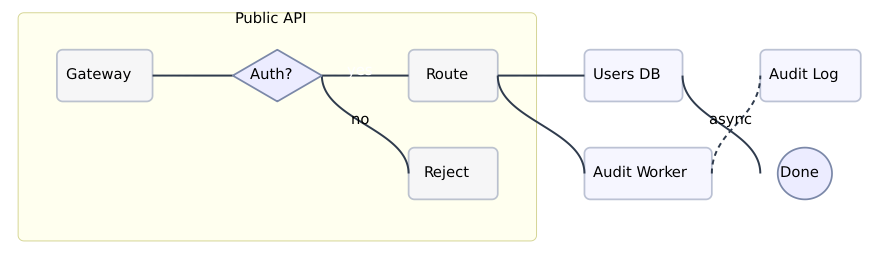
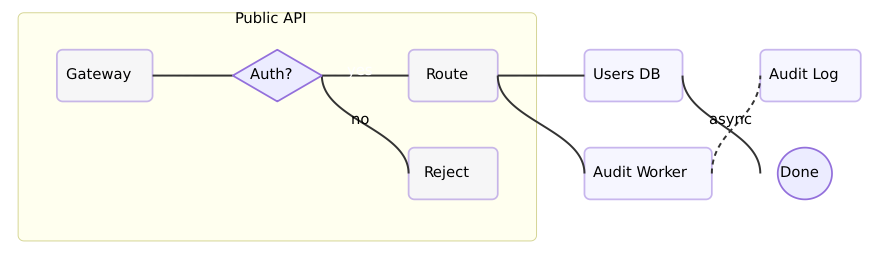
fix(theme): align default theme colors with Mermaid JS (#5)
* fix(theme): align default theme colors with Mermaid JS for high-fidelity rendering

Update MermaidDefaultTheme to mirror theme-default.js: fix border color
(#9370DB), line color (#333333), edge label background, text color, and
compute accurate 12-element pie chart palette. Fix ER diagram CSS with
correct entity box borders, odd/even attribute backgrounds, marker
styles. Fix sequence diagram CSS replacing computed HSL with #9370DB for
actor strokes.

* style: run gofmt on unformatted files

diff --git a/render.go b/render.go
@@ -132,7 +132,7 @@ func RenderSVG(layout Layout, theme Theme, _ LayoutConfig) string {
 		} else if layout.Kind == DiagramMindmap {
 			b.WriteString(`<style>#my-svg{font-family:"trebuchet ms",verdana,arial,sans-serif;font-size:16px;fill:#333;}@keyframes edge-animation-frame{from{stroke-dashoffset:0;}}@keyframes dash{to{stroke-dashoffset:0;}}#my-svg .edge-animation-slow{stroke-dasharray:9,5!important;stroke-dashoffset:900;animation:dash 50s linear infinite;stroke-linecap:round;}#my-svg .edge-animation-fast{stroke-dasharray:9,5!important;stroke-dashoffset:900;animation:dash 20s linear infinite;stroke-linecap:round;}#my-svg .error-icon{fill:#552222;}#my-svg .error-text{fill:#552222;stroke:#552222;}#my-svg .edge-thickness-normal{stroke-width:1px;}#my-svg .edge-thickness-thick{stroke-width:3.5px;}#my-svg .edge-pattern-solid{stroke-dasharray:0;}#my-svg .edge-thickness-invisible{stroke-width:0;fill:none;}#my-svg .edge-pattern-dashed{stroke-dasharray:3;}#my-svg .edge-pattern-dotted{stroke-dasharray:2;}#my-svg .marker{fill:#333333;stroke:#333333;}#my-svg .marker.cross{stroke:#333333;}#my-svg svg{font-family:"trebuchet ms",verdana,arial,sans-serif;font-size:16px;}#my-svg p{margin:0;}#my-svg .edge{stroke-width:3;}#my-svg .section--1 rect,#my-svg .section--1 path,#my-svg .section--1 circle,#my-svg .section--1 polygon,#my-svg .section--1 path{fill:hsl(240, 100%, 76.2745098039%);}#my-svg .section--1 text{fill:#ffffff;}#my-svg .node-icon--1{font-size:40px;color:#ffffff;}#my-svg .section-edge--1{stroke:hsl(240, 100%, 76.2745098039%);}#my-svg .edge-depth--1{stroke-width:17;}#my-svg .section--1 line{stroke:hsl(60, 100%, 86.2745098039%);stroke-width:3;}#my-svg .disabled,#my-svg .disabled circle,#my-svg .disabled text{fill:lightgray;}#my-svg .disabled text{fill:#efefef;}#my-svg .section-0 rect,#my-svg .section-0 path,#my-svg .section-0 circle,#my-svg .section-0 polygon,#my-svg .section-0 path{fill:hsl(60, 100%, 73.5294117647%);}#my-svg .section-0 text{fill:black;}#my-svg .node-icon-0{font-size:40px;color:black;}#my-svg .section-edge-0{stroke:hsl(60, 100%, 73.5294117647%);}#my-svg .edge-depth-0{stroke-width:14;}#my-svg .section-0 line{stroke:hsl(240, 100%, 83.5294117647%);stroke-width:3;}#my-svg .disabled,#my-svg .disabled circle,#my-svg .disabled text{fill:lightgray;}#my-svg .disabled text{fill:#efefef;}#my-svg .section-1 rect,#my-svg .section-1 path,#my-svg .section-1 circle,#my-svg .section-1 polygon,#my-svg .section-1 path{fill:hsl(80, 100%, 76.2745098039%);}#my-svg .section-1 text{fill:black;}#my-svg .node-icon-1{font-size:40px;color:black;}#my-svg .section-edge-1{stroke:hsl(80, 100%, 76.2745098039%);}#my-svg .edge-depth-1{stroke-width:11;}#my-svg .section-1 line{stroke:hsl(260, 100%, 86.2745098039%);stroke-width:3;}#my-svg .disabled,#my-svg .disabled circle,#my-svg .disabled text{fill:lightgray;}#my-svg .disabled text{fill:#efefef;}#my-svg .section-2 rect,#my-svg .section-2 path,#my-svg .section-2 circle,#my-svg .section-2 polygon,#my-svg .section-2 path{fill:hsl(270, 100%, 76.2745098039%);}#my-svg .section-2 text{fill:#ffffff;}#my-svg .node-icon-2{font-size:40px;color:#ffffff;}#my-svg .section-edge-2{stroke:hsl(270, 100%, 76.2745098039%);}#my-svg .edge-depth-2{stroke-width:8;}#my-svg .section-2 line{stroke:hsl(90, 100%, 86.2745098039%);stroke-width:3;}#my-svg .disabled,#my-svg .disabled circle,#my-svg .disabled text{fill:lightgray;}#my-svg .disabled text{fill:#efefef;}#my-svg .section-3 rect,#my-svg .section-3 path,#my-svg .section-3 circle,#my-svg .section-3 polygon,#my-svg .section-3 path{fill:hsl(300, 100%, 76.2745098039%);}#my-svg .section-3 text{fill:black;}#my-svg .node-icon-3{font-size:40px;color:black;}#my-svg .section-edge-3{stroke:hsl(300, 100%, 76.2745098039%);}#my-svg .edge-depth-3{stroke-width:5;}#my-svg .section-3 line{stroke:hsl(120, 100%, 86.2745098039%);stroke-width:3;}#my-svg .disabled,#my-svg .disabled circle,#my-svg .disabled text{fill:lightgray;}#my-svg .disabled text{fill:#efefef;}#my-svg .section-4 rect,#my-svg .section-4 path,#my-svg .section-4 circle,#my-svg .section-4 polygon,#my-svg .section-4 path{fill:hsl(330, 100%, 76.2745098039%);}#my-svg .section-4 text{fill:black;}#my-svg .node-icon-4{font-size:40px;color:black;}#my-svg .section-edge-4{stroke:hsl(330, 100%, 76.2745098039%);}#my-svg .edge-depth-4{stroke-width:2;}#my-svg .section-4 line{stroke:hsl(150, 100%, 86.2745098039%);stroke-width:3;}#my-svg .disabled,#my-svg .disabled circle,#my-svg .disabled text{fill:lightgray;}#my-svg .disabled text{fill:#efefef;}#my-svg .section-5 rect,#my-svg .section-5 path,#my-svg .section-5 circle,#my-svg .section-5 polygon,#my-svg .section-5 path{fill:hsl(0, 100%, 76.2745098039%);}#my-svg .section-5 text{fill:black;}#my-svg .node-icon-5{font-size:40px;color:black;}#my-svg .section-edge-5{stroke:hsl(0, 100%, 76.2745098039%);}#my-svg .edge-depth-5{stroke-width:-1;}#my-svg .section-5 line{stroke:hsl(180, 100%, 86.2745098039%);stroke-width:3;}#my-svg .disabled,#my-svg .disabled circle,#my-svg .disabled text{fill:lightgray;}#my-svg .disabled text{fill:#efefef;}#my-svg .section-6 rect,#my-svg .section-6 path,#my-svg .section-6 circle,#my-svg .section-6 polygon,#my-svg .section-6 path{fill:hsl(30, 100%, 76.2745098039%);}#my-svg .section-6 text{fill:black;}#my-svg .node-icon-6{font-size:40px;color:black;}#my-svg .section-edge-6{stroke:hsl(30, 100%, 76.2745098039%);}#my-svg .edge-depth-6{stroke-width:-4;}#my-svg .section-6 line{stroke:hsl(210, 100%, 86.2745098039%);stroke-width:3;}#my-svg .disabled,#my-svg .disabled circle,#my-svg .disabled text{fill:lightgray;}#my-svg .disabled text{fill:#efefef;}#my-svg .section-7 rect,#my-svg .section-7 path,#my-svg .section-7 circle,#my-svg .section-7 polygon,#my-svg .section-7 path{fill:hsl(90, 100%, 76.2745098039%);}#my-svg .section-7 text{fill:black;}#my-svg .node-icon-7{font-size:40px;color:black;}#my-svg .section-edge-7{stroke:hsl(90, 100%, 76.2745098039%);}#my-svg .edge-depth-7{stroke-width:-7;}#my-svg .section-7 line{stroke:hsl(270, 100%, 86.2745098039%);stroke-width:3;}#my-svg .disabled,#my-svg .disabled circle,#my-svg .disabled text{fill:lightgray;}#my-svg .disabled text{fill:#efefef;}#my-svg .section-8 rect,#my-svg .section-8 path,#my-svg .section-8 circle,#my-svg .section-8 polygon,#my-svg .section-8 path{fill:hsl(150, 100%, 76.2745098039%);}#my-svg .section-8 text{fill:black;}#my-svg .node-icon-8{font-size:40px;color:black;}#my-svg .section-edge-8{stroke:hsl(150, 100%, 76.2745098039%);}#my-svg .edge-depth-8{stroke-width:-10;}#my-svg .section-8 line{stroke:hsl(330, 100%, 86.2745098039%);stroke-width:3;}#my-svg .disabled,#my-svg .disabled circle,#my-svg .disabled text{fill:lightgray;}#my-svg .disabled text{fill:#efefef;}#my-svg .section-9 rect,#my-svg .section-9 path,#my-svg .section-9 circle,#my-svg .section-9 polygon,#my-svg .section-9 path{fill:hsl(180, 100%, 76.2745098039%);}#my-svg .section-9 text{fill:black;}#my-svg .node-icon-9{font-size:40px;color:black;}#my-svg .section-edge-9{stroke:hsl(180, 100%, 76.2745098039%);}#my-svg .edge-depth-9{stroke-width:-13;}#my-svg .section-9 line{stroke:hsl(0, 100%, 86.2745098039%);stroke-width:3;}#my-svg .disabled,#my-svg .disabled circle,#my-svg .disabled text{fill:lightgray;}#my-svg .disabled text{fill:#efefef;}#my-svg .section-10 rect,#my-svg .section-10 path,#my-svg .section-10 circle,#my-svg .section-10 polygon,#my-svg .section-10 path{fill:hsl(210, 100%, 76.2745098039%);}#my-svg .section-10 text{fill:black;}#my-svg .node-icon-10{font-size:40px;color:black;}#my-svg .section-edge-10{stroke:hsl(210, 100%, 76.2745098039%);}#my-svg .edge-depth-10{stroke-width:-16;}#my-svg .section-10 line{stroke:hsl(30, 100%, 86.2745098039%);stroke-width:3;}#my-svg .disabled,#my-svg .disabled circle,#my-svg .disabled text{fill:lightgray;}#my-svg .disabled text{fill:#efefef;}#my-svg .section-root rect,#my-svg .section-root path,#my-svg .section-root circle,#my-svg .section-root polygon{fill:hsl(240, 100%, 46.2745098039%);}#my-svg .section-root text{fill:#ffffff;}#my-svg .section-root span{color:#ffffff;}#my-svg .section-2 span{color:#ffffff;}#my-svg .icon-container{height:100%;display:flex;justify-content:center;align-items:center;}#my-svg .edge{fill:none;}#my-svg .mindmap-node-label{dy:1em;alignment-baseline:middle;text-anchor:middle;dominant-baseline:middle;text-align:center;}#my-svg :root{--mermaid-font-family:"trebuchet ms",verdana,arial,sans-serif;}</style>`)
 		} else if layout.Kind == DiagramSequence {
-			b.WriteString(`<style>#my-svg{font-family:"trebuchet ms",verdana,arial,sans-serif;font-size:16px;fill:#333;}@keyframes edge-animation-frame{from{stroke-dashoffset:0;}}@keyframes dash{to{stroke-dashoffset:0;}}#my-svg .edge-animation-slow{stroke-dasharray:9,5!important;stroke-dashoffset:900;animation:dash 50s linear infinite;stroke-linecap:round;}#my-svg .edge-animation-fast{stroke-dasharray:9,5!important;stroke-dashoffset:900;animation:dash 20s linear infinite;stroke-linecap:round;}#my-svg .error-icon{fill:#552222;}#my-svg .error-text{fill:#552222;stroke:#552222;}#my-svg .edge-thickness-normal{stroke-width:1px;}#my-svg .edge-thickness-thick{stroke-width:3.5px;}#my-svg .edge-pattern-solid{stroke-dasharray:0;}#my-svg .edge-thickness-invisible{stroke-width:0;fill:none;}#my-svg .edge-pattern-dashed{stroke-dasharray:3;}#my-svg .edge-pattern-dotted{stroke-dasharray:2;}#my-svg .marker{fill:#333333;stroke:#333333;}#my-svg .marker.cross{stroke:#333333;}#my-svg svg{font-family:"trebuchet ms",verdana,arial,sans-serif;font-size:16px;}#my-svg p{margin:0;}#my-svg .actor{stroke:hsl(259.6261682243, 59.7765363128%, 87.9019607843%);fill:#ECECFF;}#my-svg text.actor&gt;tspan{fill:black;stroke:none;}#my-svg .actor-line{stroke:hsl(259.6261682243, 59.7765363128%, 87.9019607843%);}#my-svg .innerArc{stroke-width:1.5;stroke-dasharray:none;}#my-svg .messageLine0{stroke-width:1.5;stroke-dasharray:none;stroke:#333;}#my-svg .messageLine1{stroke-width:1.5;stroke-dasharray:2,2;stroke:#333;}#my-svg #arrowhead path{fill:#333;stroke:#333;}#my-svg .sequenceNumber{fill:white;}#my-svg #sequencenumber{fill:#333;}#my-svg #crosshead path{fill:#333;stroke:#333;}#my-svg .messageText{fill:#333;stroke:none;}#my-svg .labelBox{stroke:hsl(259.6261682243, 59.7765363128%, 87.9019607843%);fill:#ECECFF;}#my-svg .labelText,#my-svg .labelText&gt;tspan{fill:black;stroke:none;}#my-svg .loopText,#my-svg .loopText&gt;tspan{fill:black;stroke:none;}#my-svg .loopLine{stroke-width:2px;stroke-dasharray:2,2;stroke:hsl(259.6261682243, 59.7765363128%, 87.9019607843%);fill:hsl(259.6261682243, 59.7765363128%, 87.9019607843%);}#my-svg .note{stroke:#aaaa33;fill:#fff5ad;}#my-svg .noteText,#my-svg .noteText&gt;tspan{fill:black;stroke:none;}#my-svg .activation0{fill:#f4f4f4;stroke:#666;}#my-svg .activation1{fill:#f4f4f4;stroke:#666;}#my-svg .activation2{fill:#f4f4f4;stroke:#666;}#my-svg .actorPopupMenu{position:absolute;}#my-svg .actorPopupMenuPanel{position:absolute;fill:#ECECFF;box-shadow:0px 8px 16px 0px rgba(0,0,0,0.2);filter:drop-shadow(3px 5px 2px rgb(0 0 0 / 0.4));}#my-svg .actor-man line{stroke:hsl(259.6261682243, 59.7765363128%, 87.9019607843%);fill:#ECECFF;}#my-svg .actor-man circle,#my-svg line{stroke:hsl(259.6261682243, 59.7765363128%, 87.9019607843%);fill:#ECECFF;stroke-width:2px;}#my-svg :root{--mermaid-font-family:"trebuchet ms",verdana,arial,sans-serif;}</style>`)
+			b.WriteString(`<style>#my-svg{font-family:"trebuchet ms",verdana,arial,sans-serif;font-size:16px;fill:#333;}@keyframes edge-animation-frame{from{stroke-dashoffset:0;}}@keyframes dash{to{stroke-dashoffset:0;}}#my-svg .edge-animation-slow{stroke-dasharray:9,5!important;stroke-dashoffset:900;animation:dash 50s linear infinite;stroke-linecap:round;}#my-svg .edge-animation-fast{stroke-dasharray:9,5!important;stroke-dashoffset:900;animation:dash 20s linear infinite;stroke-linecap:round;}#my-svg .error-icon{fill:#552222;}#my-svg .error-text{fill:#552222;stroke:#552222;}#my-svg .edge-thickness-normal{stroke-width:1px;}#my-svg .edge-thickness-thick{stroke-width:3.5px;}#my-svg .edge-pattern-solid{stroke-dasharray:0;}#my-svg .edge-thickness-invisible{stroke-width:0;fill:none;}#my-svg .edge-pattern-dashed{stroke-dasharray:3;}#my-svg .edge-pattern-dotted{stroke-dasharray:2;}#my-svg .marker{fill:#333333;stroke:#333333;}#my-svg .marker.cross{stroke:#333333;}#my-svg svg{font-family:"trebuchet ms",verdana,arial,sans-serif;font-size:16px;}#my-svg p{margin:0;}#my-svg .actor{stroke:#9370DB;fill:#ECECFF;}#my-svg text.actor&gt;tspan{fill:black;stroke:none;}#my-svg .actor-line{stroke:#9370DB;}#my-svg .innerArc{stroke-width:1.5;stroke-dasharray:none;}#my-svg .messageLine0{stroke-width:1.5;stroke-dasharray:none;stroke:#333;}#my-svg .messageLine1{stroke-width:1.5;stroke-dasharray:2,2;stroke:#333;}#my-svg #arrowhead path{fill:#333;stroke:#333;}#my-svg .sequenceNumber{fill:white;}#my-svg #sequencenumber{fill:#333;}#my-svg #crosshead path{fill:#333;stroke:#333;}#my-svg .messageText{fill:#333;stroke:none;}#my-svg .labelBox{stroke:#9370DB;fill:#ECECFF;}#my-svg .labelText,#my-svg .labelText&gt;tspan{fill:black;stroke:none;}#my-svg .loopText,#my-svg .loopText&gt;tspan{fill:black;stroke:none;}#my-svg .loopLine{stroke-width:2px;stroke-dasharray:2,2;stroke:#9370DB;fill:#9370DB;}#my-svg .note{stroke:#aaaa33;fill:#fff5ad;}#my-svg .noteText,#my-svg .noteText&gt;tspan{fill:black;stroke:none;}#my-svg .activation0{fill:#f4f4f4;stroke:#666;}#my-svg .activation1{fill:#f4f4f4;stroke:#666;}#my-svg .activation2{fill:#f4f4f4;stroke:#666;}#my-svg .actorPopupMenu{position:absolute;}#my-svg .actorPopupMenuPanel{position:absolute;fill:#ECECFF;box-shadow:0px 8px 16px 0px rgba(0,0,0,0.2);filter:drop-shadow(3px 5px 2px rgb(0 0 0 / 0.4));}#my-svg .actor-man line{stroke:#9370DB;fill:#ECECFF;}#my-svg .actor-man circle,#my-svg line{stroke:#9370DB;fill:#ECECFF;stroke-width:2px;}#my-svg :root{--mermaid-font-family:"trebuchet ms",verdana,arial,sans-serif;}</style>`)
 		} else if layout.Kind == DiagramBlock {
 			b.WriteString(`<style>#my-svg{font-family:"trebuchet ms",verdana,arial,sans-serif;font-size:16px;fill:#333;}@keyframes edge-animation-frame{from{stroke-dashoffset:0;}}@keyframes dash{to{stroke-dashoffset:0;}}#my-svg .edge-animation-slow{stroke-dasharray:9,5!important;stroke-dashoffset:900;animation:dash 50s linear infinite;stroke-linecap:round;}#my-svg .edge-animation-fast{stroke-dasharray:9,5!important;stroke-dashoffset:900;animation:dash 20s linear infinite;stroke-linecap:round;}#my-svg .error-icon{fill:#552222;}#my-svg .error-text{fill:#552222;stroke:#552222;}#my-svg .edge-thickness-normal{stroke-width:1px;}#my-svg .edge-thickness-thick{stroke-width:3.5px;}#my-svg .edge-pattern-solid{stroke-dasharray:0;}#my-svg .edge-thickness-invisible{stroke-width:0;fill:none;}#my-svg .edge-pattern-dashed{stroke-dasharray:3;}#my-svg .edge-pattern-dotted{stroke-dasharray:2;}#my-svg .marker{fill:#333333;stroke:#333333;}#my-svg .marker.cross{stroke:#333333;}#my-svg svg{font-family:"trebuchet ms",verdana,arial,sans-serif;font-size:16px;}#my-svg p{margin:0;}#my-svg .label{font-family:"trebuchet ms",verdana,arial,sans-serif;color:#333;}#my-svg .cluster-label text{fill:#333;}#my-svg .cluster-label span,#my-svg p{color:#333;}#my-svg .label text,#my-svg span,#my-svg p{fill:#333;color:#333;}#my-svg .node rect,#my-svg .node circle,#my-svg .node ellipse,#my-svg .node polygon,#my-svg .node path{fill:#ECECFF;stroke:#9370DB;stroke-width:1px;}#my-svg .flowchart-label text{text-anchor:middle;}#my-svg .node .label{text-align:center;}#my-svg .node.clickable{cursor:pointer;}#my-svg .arrowheadPath{fill:#333333;}#my-svg .edgePath .path{stroke:#333333;stroke-width:2.0px;}#my-svg .flowchart-link{stroke:#333333;fill:none;}#my-svg .edgeLabel{background-color:rgba(232,232,232, 0.8);text-align:center;}#my-svg .edgeLabel rect{opacity:0.5;background-color:rgba(232,232,232, 0.8);fill:rgba(232,232,232, 0.8);}#my-svg .labelBkg{background-color:rgba(232, 232, 232, 0.5);}#my-svg .node .cluster{fill:rgba(255, 255, 222, 0.5);stroke:rgba(170, 170, 51, 0.2);box-shadow:rgba(50, 50, 93, 0.25) 0px 13px 27px -5px,rgba(0, 0, 0, 0.3) 0px 8px 16px -8px;stroke-width:1px;}#my-svg .cluster text{fill:#333;}#my-svg .cluster span,#my-svg p{color:#333;}#my-svg div.mermaidTooltip{position:absolute;text-align:center;max-width:200px;padding:2px;font-family:"trebuchet ms",verdana,arial,sans-serif;font-size:12px;background:hsl(80, 100%, 96.2745098039%);border:1px solid #aaaa33;border-radius:2px;pointer-events:none;z-index:100;}#my-svg .flowchartTitleText{text-anchor:middle;font-size:18px;fill:#333;}#my-svg .label-icon{display:inline-block;height:1em;overflow:visible;vertical-align:-0.125em;}#my-svg .node .label-icon path{fill:currentColor;stroke:revert;stroke-width:revert;}#my-svg :root{--mermaid-font-family:"trebuchet ms",verdana,arial,sans-serif;}</style>`)
 		} else if layout.Kind == DiagramKanban {
@@ -1234,7 +1234,7 @@ func renderClassMermaid(layout Layout) string {
 		b.WriteString(`<foreignObject width="` + formatFloat(titleW) + `" height="24"><div xmlns="http://www.w3.org/1999/xhtml" style="display: table-cell; white-space: nowrap; line-height: 1.5; max-width: ` + formatFloat(maxLabelW) + `px; text-align: center;"><span class="nodeLabel markdown-node-label" style=""><p>`)
 		b.WriteString(html.EscapeString(title))
 		b.WriteString(`</p></span></div></foreignObject></g></g>`)
-		
+
 		b.WriteString(`<g class="members-group text" transform="translate(` + formatFloat(-w2+10) + `, 30)">`)
 		for _, text := range layout.Texts {
 			if text.Class == "class-member-"+rect.ID {
@@ -1246,7 +1246,7 @@ func renderClassMermaid(layout Layout) string {
 			}
 		}
 		b.WriteString(`</g>`)
-		
+
 		b.WriteString(`<g class="methods-group text" transform="translate(` + formatFloat(-w2+10) + `, 60)">`)
 		for _, text := range layout.Texts {
 			if text.Class == "class-method-"+rect.ID {
@@ -1258,7 +1258,7 @@ func renderClassMermaid(layout Layout) string {
 			}
 		}
 		b.WriteString(`</g>`)
-		
+
 		b.WriteString(`<g class="divider" style=""><path d="M` + formatFloat(-w2) + ` 6 L` + formatFloat(w2) + ` 6" stroke="#9370DB" stroke-width="1.3" fill="none" stroke-dasharray="0 0" style=""/></g>`)
 		b.WriteString(`<g class="divider" style=""><path d="M` + formatFloat(-w2) + ` 24 L` + formatFloat(w2) + ` 24" stroke="#9370DB" stroke-width="1.3" fill="none" stroke-dasharray="0 0" style=""/></g>`)
 		b.WriteString(`</g>`)
@@ -3455,7 +3455,7 @@ func radarStyleCSS() string {
 }
 
 func erStyleCSS() string {
-	return genericMermaidBaseCSS() + `#my-svg .er.entityBox{fill:#ECECFF;stroke:hsl(240, 60%, 86.2745098039%);}#my-svg .er.attributeBoxEven,#my-svg .er.attributeBoxOdd{fill:#ECECFF;stroke:hsl(240, 60%, 86.2745098039%);}#my-svg .er.entityLabel{fill:#131300;}#my-svg .er.attributeText,#my-svg .er.relationshipLabelBox span{fill:#131300;}#my-svg .er.relationshipLabelBox{fill:#ECECFF;stroke:hsl(240, 60%, 86.2745098039%);}#my-svg .er.relationshipLabelBox{opacity:1;}#my-svg .er.relationshipLabelBox rect{opacity:1;}#my-svg .er.relationshipLine{stroke:#333333;}#my-svg .er.relationshipLine path{stroke:#333333;}#my-svg .er.relationshipLine:hover{stroke:#333333;}#my-svg :root{--mermaid-font-family:"trebuchet ms",verdana,arial,sans-serif;}`
+	return genericMermaidBaseCSS() + `#my-svg .entityBox{fill:#ECECFF;stroke:#9370DB;}#my-svg .attributeBoxEven{fill:#f2f2f2;stroke:#9370DB;}#my-svg .attributeBoxOdd{fill:#ffffff;stroke:#9370DB;}#my-svg .entityLabel{fill:#131300;}#my-svg .er.entityLabel{fill:#131300;}#my-svg .er.attributeText{fill:#131300;}#my-svg .relationshipLabelBox{fill:#ECECFF;opacity:0.7;background-color:#ECECFF;}#my-svg .relationshipLabelBox rect{opacity:0.5;}#my-svg .relationshipLine{stroke:#333333;stroke-width:1px;fill:none;}#my-svg .marker{fill:none!important;stroke:#333333!important;stroke-width:1;}#my-svg .edgeLabel{background-color:rgba(232,232,232, 0.8);}#my-svg .edgeLabel .label rect{fill:rgba(232,232,232, 0.8);}#my-svg .edgeLabel .label text{fill:#333;}#my-svg .edgeLabel .label{fill:#9370DB;font-size:14px;}#my-svg .label{font-family:"trebuchet ms",verdana,arial,sans-serif;color:#333;}#my-svg .edge-pattern-dashed{stroke-dasharray:8,8;}#my-svg .node rect,#my-svg .node circle,#my-svg .node ellipse,#my-svg .node polygon{fill:#ECECFF;stroke:#9370DB;stroke-width:1px;}#my-svg :root{--mermaid-font-family:"trebuchet ms",verdana,arial,sans-serif;}`
 }
 
 func requirementStyleCSS() string {

diff --git a/config.go b/config.go
@@ -78,20 +78,20 @@ func ModernTheme() Theme {
 
 func MermaidDefaultTheme() Theme {
 	primaryColor := "#ECECFF"
-	secondaryColor := "#FFFFDE"
+	secondaryColor := "#ffffde"
 	tertiaryColor := "#ECECFF"
-	pieColors := []string{"#ECECFF", "#FFFFDE", "#B5FF20"}
+	pieColors := mermaidDefaultPieColors()
 	return Theme{
-		Background:               "#FFFFFF",
+		Background:               "white",
 		PrimaryColor:             primaryColor,
-		PrimaryBorderColor:       "#7B88A8",
-		PrimaryTextColor:         "#333333",
-		LineColor:                "#2F3B4D",
+		PrimaryBorderColor:       "#9370DB",
+		PrimaryTextColor:         "#131300",
+		LineColor:                "#333333",
 		SecondaryColor:           secondaryColor,
 		TertiaryColor:            tertiaryColor,
-		EdgeLabelBackground:      "rgba(248,250,252, 0.92)",
-		ClusterBorder:            "#AAAA33",
-		TextColor:                "#333333",
+		EdgeLabelBackground:      "rgba(232,232,232, 0.8)",
+		ClusterBorder:            "#aaaa33",
+		TextColor:                "#333",
 		FontFamily:               "'trebuchet ms', verdana, arial, sans-serif",
 		FontSize:                 16,
 		GitColors:                append([]string(nil), mermaidGitColors...),
@@ -104,16 +104,33 @@ func MermaidDefaultTheme() Theme {
 		GitTagLabelBorder:        mermaidGitTagLabelBorder,
 		PieColors:                pieColors,
 		PieTitleTextSize:         25.0,
-		PieTitleTextColor:        "#333333",
+		PieTitleTextColor:        "black",
 		PieSectionTextSize:       17.0,
-		PieSectionTextColor:      "#333333",
+		PieSectionTextColor:      "#333",
 		PieLegendTextSize:        17.0,
-		PieLegendTextColor:       "#333333",
-		PieStrokeColor:           "#000000",
+		PieLegendTextColor:       "black",
+		PieStrokeColor:           "black",
 		PieStrokeWidth:           2.0,
 		PieOuterStrokeWidth:      2.0,
-		PieOuterStrokeColor:      "#000000",
+		PieOuterStrokeColor:      "black",
 		PieOpacity:               0.7,
+	}
+}
+
+func mermaidDefaultPieColors() []string {
+	return []string{
+		"#ECECFF",
+		"#ffffde",
+		adjustColor("#ECECFF", -160.0, 0.0, -40.0),
+		adjustColor("#ECECFF", 0.0, 0.0, -10.0),
+		adjustColor("#ffffde", 0.0, 0.0, -30.0),
+		adjustColor("#ECECFF", -160.0, 0.0, -20.0),
+		adjustColor("#ECECFF", 60.0, 0.0, -20.0),
+		adjustColor("#ECECFF", -60.0, 0.0, -40.0),
+		adjustColor("#ECECFF", 120.0, 0.0, -40.0),
+		adjustColor("#ECECFF", 60.0, 0.0, -40.0),
+		adjustColor("#ECECFF", -90.0, 0.0, -40.0),
+		adjustColor("#ECECFF", 120.0, 0.0, -30.0),
 	}
 }
 

diff --git a/output.go b/output.go
@@ -796,7 +796,7 @@ func overlaySVGText(img *image.NRGBA, svg string, width int, height int, viewBox
 			px = math.Round(px)
 			py += float64(metrics.Ascent+metrics.Descent) / 128.0
 		}
-		
+
 		transformAttr := strings.TrimSpace(parseAttr(attrs, "transform"))
 		var rotateAngle float64
 		if transformAttr != "" {
@@ -1488,7 +1488,7 @@ func overlayRotatedText(img *image.NRGBA, content string, face font.Face, textCo
 	width := int(math.Ceil(float64(advance) / 64.0))
 	ascent := int(math.Ceil(float64(metrics.Ascent) / 64.0))
 	descent := int(math.Ceil(float64(metrics.Descent) / 64.0))
-	
+
 	pad := 2
 	w := width + pad*2
 	h := ascent + descent + pad*2
@@ -1538,7 +1538,7 @@ func overlayRotatedText(img *image.NRGBA, content string, face font.Face, textCo
 					cr, cg, cb, ca := c.RGBA()
 					bg := img.At(dx, dy)
 					br, bg_, bb, ba := bg.RGBA()
-					
+
 					alpha := ca
 					if alpha == 0xffff {
 						img.Set(dx, dy, c)

diff --git a/layout.go b/layout.go
@@ -468,7 +468,7 @@ func layoutERDiagram(graph *Graph, theme Theme, config LayoutConfig) Layout {
 			MarkerStart: "",
 			MarkerEnd:   "",
 		})
-		
+
 		angle := math.Atan2(y2-y1, x2-x1) * 180.0 / math.Pi
 		if edge.MarkerStart != "" {
 			paths, circles := getERMarkerPaths(edge.MarkerStart, theme.LineColor, x1, y1, angle)
@@ -3225,7 +3225,6 @@ func getERMarkerPaths(marker, stroke string, x, y, angle float64) ([]LayoutPath,
 	}
 	return paths, circles
 }
-
 
 func layoutGeneric(graph *Graph, theme Theme) Layout {
 	layout := Layout{Kind: graph.Kind}

diff --git a/text_metrics.go b/text_metrics.go
@@ -145,7 +145,7 @@ func buildFontIndex() {
 			}
 			dir = filepath.Join(home, dir[2:])
 		}
-		
+
 		filepath.WalkDir(dir, func(path string, d os.DirEntry, err error) error {
 			if err != nil {
 				return nil
